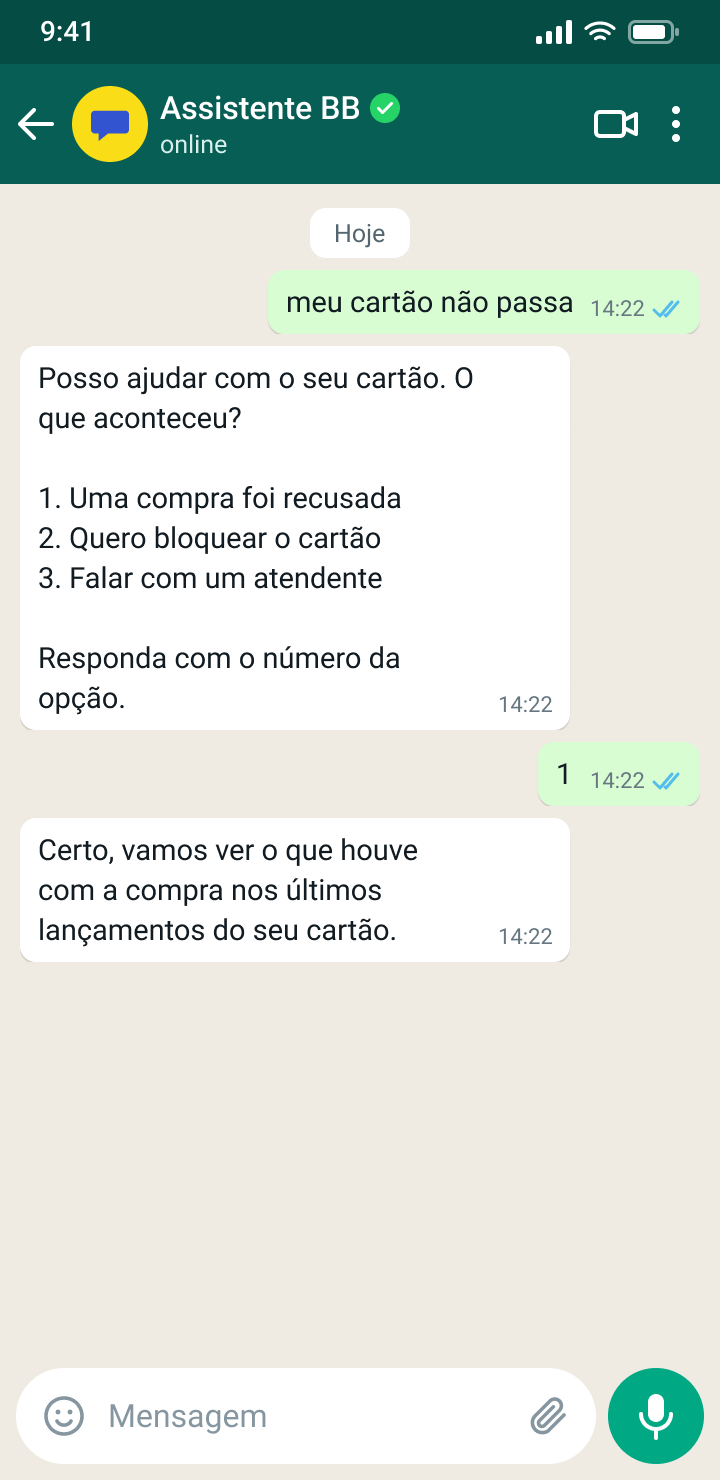
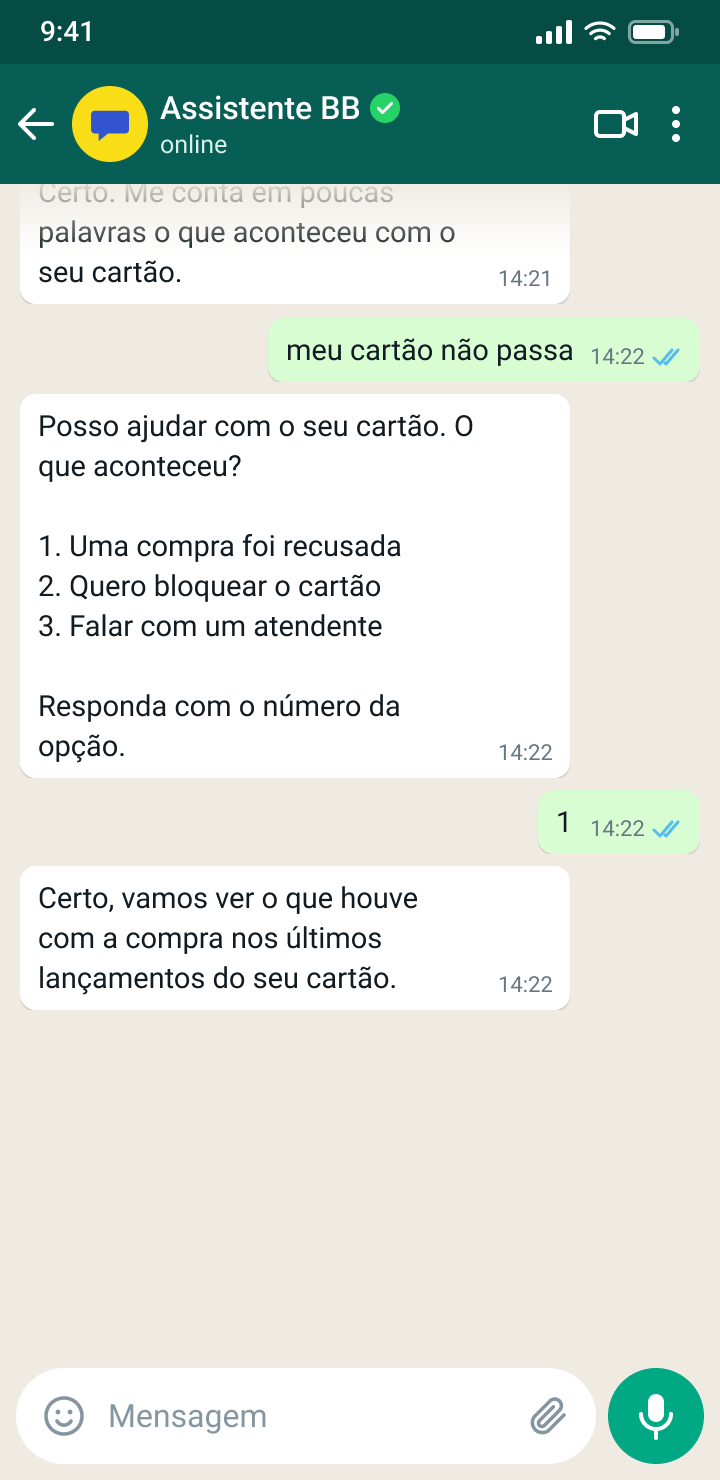
Case BB: mockups de WhatsApp como uma conversa contínua (sem 'Hoje' nas telas 2 e 3, mensagem anterior no topo com fade) e rótulos PT/EN/ES
Claude-Session: https://claude.ai/code/session_01AMTPoRfJPEUWcLiTCnj4aj

diff --git a/es/index.html b/es/index.html
@@ -354,9 +354,9 @@
 </div>
 <div class="cx-bleed">
 <div class="cx-strip imgs fx" style="--n:4;--cols:0.486fr 0.486fr 0.486fr 1.267fr">
-<img style="aspect-ratio:360/740" src="/bb-fallback.png" alt="Chat de WhatsApp con el asistente de BB, en portugués: después de dos mensajes sin contexto, el asistente explica lo que puede hacer con un ejemplo y ofrece opciones numeradas" loading="lazy">
-<img style="aspect-ratio:360/740" src="/bb-desambiguacao.png" alt="Chat de WhatsApp, en portugués: el cliente escribe “mi tarjeta no pasa” y el asistente confirma la intención con tres opciones numeradas antes de pedir cualquier dato" loading="lazy">
-<img style="aspect-ratio:360/740" src="/bb-risco.png" alt="Chat de WhatsApp, en portugués: el cliente no reconoce una compra rechazada en la tarjeta terminada en 4821 y el asistente deriva a un agente, avisando que recibe el resumen de la conversación" loading="lazy">
+<figure class="bb-fig"><figcaption class="bb-cap">1. Fallback en 2 etapas</figcaption><img style="aspect-ratio:360/740" src="/bb-fallback.png" alt="Chat de WhatsApp con el asistente de BB, en portugués: después de dos mensajes sin contexto, el asistente explica lo que puede hacer con un ejemplo y ofrece opciones numeradas" loading="lazy"></figure>
+<figure class="bb-fig"><figcaption class="bb-cap">2. Desambiguación</figcaption><img style="aspect-ratio:360/740" src="/bb-desambiguacao.png" alt="Chat de WhatsApp, en portugués: el cliente escribe “mi tarjeta no pasa” y el asistente confirma la intención con tres opciones numeradas antes de pedir cualquier dato" loading="lazy"></figure>
+<figure class="bb-fig"><figcaption class="bb-cap">3. Derivación con contexto</figcaption><img style="aspect-ratio:360/740" src="/bb-risco.png" alt="Chat de WhatsApp, en portugués: el cliente no reconoce una compra rechazada en la tarjeta terminada en 4821 y el asistente deriva a un agente, avisando que recibe el resumen de la conversación" loading="lazy"></figure>
 <img style="aspect-ratio:760/600" src="/bb-console.png" alt="Consola del agente, en portugués, con la conversación que viene de WhatsApp y el resumen de la preatención: intención detectada, paso donde se cortó, datos ya validados y regla activada" loading="lazy">
 </div>
 </div>

diff --git a/index.html b/index.html
@@ -354,9 +354,9 @@
 </div>
 <div class="cx-bleed">
 <div class="cx-strip imgs fx" style="--n:4;--cols:0.486fr 0.486fr 0.486fr 1.267fr">
-<img style="aspect-ratio:360/740" src="/bb-fallback.png" alt="WhatsApp chat with the BB assistant, in Portuguese: after two messages without context, the assistant explains what it can do with an example and offers numbered options" loading="lazy">
-<img style="aspect-ratio:360/740" src="/bb-desambiguacao.png" alt="WhatsApp chat, in Portuguese: the customer writes “my card isn’t going through” and the assistant confirms the intent with three numbered options before asking for any data" loading="lazy">
-<img style="aspect-ratio:360/740" src="/bb-risco.png" alt="WhatsApp chat, in Portuguese: the customer doesn’t recognize a declined purchase on the card ending in 4821, and the assistant hands off to an agent, saying the agent gets a summary of the conversation" loading="lazy">
+<figure class="bb-fig"><figcaption class="bb-cap">1. Two-step fallback</figcaption><img style="aspect-ratio:360/740" src="/bb-fallback.png" alt="WhatsApp chat with the BB assistant, in Portuguese: after two messages without context, the assistant explains what it can do with an example and offers numbered options" loading="lazy"></figure>
+<figure class="bb-fig"><figcaption class="bb-cap">2. Disambiguation</figcaption><img style="aspect-ratio:360/740" src="/bb-desambiguacao.png" alt="WhatsApp chat, in Portuguese: the customer writes “my card isn’t going through” and the assistant confirms the intent with three numbered options before asking for any data" loading="lazy"></figure>
+<figure class="bb-fig"><figcaption class="bb-cap">3. Handoff with context</figcaption><img style="aspect-ratio:360/740" src="/bb-risco.png" alt="WhatsApp chat, in Portuguese: the customer doesn’t recognize a declined purchase on the card ending in 4821, and the assistant hands off to an agent, saying the agent gets a summary of the conversation" loading="lazy"></figure>
 <img style="aspect-ratio:760/600" src="/bb-console.png" alt="Agent console, in Portuguese, with the conversation from WhatsApp and the pre-service summary: detected intent, step where it stopped, data already validated and rule triggered" loading="lazy">
 </div>
 </div>

diff --git a/pt/index.html b/pt/index.html
@@ -372,9 +372,9 @@
 </div>
 <div class="cx-bleed">
 <div class="cx-strip imgs fx" style="--n:4;--cols:0.486fr 0.486fr 0.486fr 1.267fr">
-<img style="aspect-ratio:360/740" src="/bb-fallback.png" alt="Conversa no WhatsApp com a Assistente BB: depois de duas mensagens sem contexto, a assistente explica o que consegue fazer com um exemplo e oferece opções numeradas" loading="lazy">
-<img style="aspect-ratio:360/740" src="/bb-desambiguacao.png" alt="Conversa no WhatsApp: o cliente escreve “meu cartão não passa” e a assistente confirma a intenção com três opções numeradas antes de pedir qualquer dado" loading="lazy">
-<img style="aspect-ratio:360/740" src="/bb-risco.png" alt="Conversa no WhatsApp: o cliente não reconhece uma compra recusada no cartão final 4821 e a assistente transfere para um atendente, avisando que ele recebe o resumo da conversa" loading="lazy">
+<figure class="bb-fig"><figcaption class="bb-cap">1. Fallback em 2 etapas</figcaption><img style="aspect-ratio:360/740" src="/bb-fallback.png" alt="Conversa no WhatsApp com a Assistente BB: depois de duas mensagens sem contexto, a assistente explica o que consegue fazer com um exemplo e oferece opções numeradas" loading="lazy"></figure>
+<figure class="bb-fig"><figcaption class="bb-cap">2. Desambiguação</figcaption><img style="aspect-ratio:360/740" src="/bb-desambiguacao.png" alt="Conversa no WhatsApp: o cliente escreve “meu cartão não passa” e a assistente confirma a intenção com três opções numeradas antes de pedir qualquer dado" loading="lazy"></figure>
+<figure class="bb-fig"><figcaption class="bb-cap">3. Transbordo com contexto</figcaption><img style="aspect-ratio:360/740" src="/bb-risco.png" alt="Conversa no WhatsApp: o cliente não reconhece uma compra recusada no cartão final 4821 e a assistente transfere para um atendente, avisando que ele recebe o resumo da conversa" loading="lazy"></figure>
 <img style="aspect-ratio:760/600" src="/bb-console.png" alt="Console do atendente com a conversa vinda do WhatsApp e o resumo do pré-atendimento: intenção detectada, etapa em que parou, dados já validados e regra acionada" loading="lazy">
 </div>
 </div>

diff --git a/assistente-virtual-whatsapp.html b/assistente-virtual-whatsapp.html
@@ -67,9 +67,9 @@
 </div>
 <div class="cx-bleed">
 <div class="cx-strip imgs" style="--n:3">
-<img src="/bb-fallback.png" alt="WhatsApp chat with the BB assistant, in Portuguese: after two messages without context, the assistant explains what it can do with an example and offers numbered options" loading="lazy">
-<img src="/bb-desambiguacao.png" alt="WhatsApp chat, in Portuguese: the customer writes “my card isn’t going through” and the assistant confirms the intent with three numbered options before asking for any data" loading="lazy">
-<img src="/bb-risco.png" alt="WhatsApp chat, in Portuguese: the customer doesn’t recognize a declined purchase on the card ending in 4821, and the assistant hands off to an agent, saying the agent gets a summary of the conversation" loading="lazy">
+<figure class="bb-fig"><figcaption class="bb-cap">1. Two-step fallback</figcaption><img src="/bb-fallback.png" alt="WhatsApp chat with the BB assistant, in Portuguese: after two messages without context, the assistant explains what it can do with an example and offers numbered options" loading="lazy"></figure>
+<figure class="bb-fig"><figcaption class="bb-cap">2. Disambiguation</figcaption><img src="/bb-desambiguacao.png" alt="WhatsApp chat, in Portuguese: the customer writes “my card isn’t going through” and the assistant confirms the intent with three numbered options before asking for any data" loading="lazy"></figure>
+<figure class="bb-fig"><figcaption class="bb-cap">3. Handoff with context</figcaption><img src="/bb-risco.png" alt="WhatsApp chat, in Portuguese: the customer doesn’t recognize a declined purchase on the card ending in 4821, and the assistant hands off to an agent, saying the agent gets a summary of the conversation" loading="lazy"></figure>
 </div>
 </div>
 <div class="cx-body">

diff --git a/es/assistente-virtual-whatsapp.html b/es/assistente-virtual-whatsapp.html
@@ -67,9 +67,9 @@
 </div>
 <div class="cx-bleed">
 <div class="cx-strip imgs" style="--n:3">
-<img src="/bb-fallback.png" alt="Chat de WhatsApp con el asistente de BB, en portugués: después de dos mensajes sin contexto, el asistente explica lo que puede hacer con un ejemplo y ofrece opciones numeradas" loading="lazy">
-<img src="/bb-desambiguacao.png" alt="Chat de WhatsApp, en portugués: el cliente escribe “mi tarjeta no pasa” y el asistente confirma la intención con tres opciones numeradas antes de pedir cualquier dato" loading="lazy">
-<img src="/bb-risco.png" alt="Chat de WhatsApp, en portugués: el cliente no reconoce una compra rechazada en la tarjeta terminada en 4821 y el asistente deriva a un agente, avisando que recibe el resumen de la conversación" loading="lazy">
+<figure class="bb-fig"><figcaption class="bb-cap">1. Fallback en 2 etapas</figcaption><img src="/bb-fallback.png" alt="Chat de WhatsApp con el asistente de BB, en portugués: después de dos mensajes sin contexto, el asistente explica lo que puede hacer con un ejemplo y ofrece opciones numeradas" loading="lazy"></figure>
+<figure class="bb-fig"><figcaption class="bb-cap">2. Desambiguación</figcaption><img src="/bb-desambiguacao.png" alt="Chat de WhatsApp, en portugués: el cliente escribe “mi tarjeta no pasa” y el asistente confirma la intención con tres opciones numeradas antes de pedir cualquier dato" loading="lazy"></figure>
+<figure class="bb-fig"><figcaption class="bb-cap">3. Derivación con contexto</figcaption><img src="/bb-risco.png" alt="Chat de WhatsApp, en portugués: el cliente no reconoce una compra rechazada en la tarjeta terminada en 4821 y el asistente deriva a un agente, avisando que recibe el resumen de la conversación" loading="lazy"></figure>
 </div>
 </div>
 <div class="cx-body">

diff --git a/pt/assistente-virtual-whatsapp.html b/pt/assistente-virtual-whatsapp.html
@@ -67,9 +67,9 @@
 </div>
 <div class="cx-bleed">
 <div class="cx-strip imgs" style="--n:3">
-<img src="/bb-fallback.png" alt="Conversa no WhatsApp com a Assistente BB: depois de duas mensagens sem contexto, a assistente explica o que consegue fazer com um exemplo e oferece opções numeradas" loading="lazy">
-<img src="/bb-desambiguacao.png" alt="Conversa no WhatsApp: o cliente escreve “meu cartão não passa” e a assistente confirma a intenção com três opções numeradas antes de pedir qualquer dado" loading="lazy">
-<img src="/bb-risco.png" alt="Conversa no WhatsApp: o cliente não reconhece uma compra recusada no cartão final 4821 e a assistente transfere para um atendente, avisando que ele recebe o resumo da conversa" loading="lazy">
+<figure class="bb-fig"><figcaption class="bb-cap">1. Fallback em 2 etapas</figcaption><img src="/bb-fallback.png" alt="Conversa no WhatsApp com a Assistente BB: depois de duas mensagens sem contexto, a assistente explica o que consegue fazer com um exemplo e oferece opções numeradas" loading="lazy"></figure>
+<figure class="bb-fig"><figcaption class="bb-cap">2. Desambiguação</figcaption><img src="/bb-desambiguacao.png" alt="Conversa no WhatsApp: o cliente escreve “meu cartão não passa” e a assistente confirma a intenção com três opções numeradas antes de pedir qualquer dado" loading="lazy"></figure>
+<figure class="bb-fig"><figcaption class="bb-cap">3. Transbordo com contexto</figcaption><img src="/bb-risco.png" alt="Conversa no WhatsApp: o cliente não reconhece uma compra recusada no cartão final 4821 e a assistente transfere para um atendente, avisando que ele recebe o resumo da conversa" loading="lazy"></figure>
 </div>
 </div>
 <div class="cx-body">

diff --git a/styles.css b/styles.css
@@ -1304,3 +1304,9 @@ body.v2 .ct { padding-top: 40px; }
 /* Tags na legenda do card (mobile e touch, sem hover) */
 .v2 .cs-cap .cs-tags { display: flex; flex-wrap: wrap; gap: 6px; margin: 12px 0 0; }
 .v2 .cs-cap .cs-tags span { padding: 4px 10px; border-radius: 100px; background: rgba(0, 0, 0, .05); border: 1px solid rgba(0, 0, 0, .08); font-size: 12px; font-weight: 600; line-height: 1.2; color: #111; }
+
+/* BB: rótulos acima dos 3 mockups de WhatsApp */
+.bb-fig { margin: 0; min-width: 0; display: block; }
+.bb-cap { max-width: none; margin: 0 0 8px; font-size: .78rem; line-height: 1.3; font-weight: 600; letter-spacing: .01em; color: #666; }
+.cx-strip.fx .bb-fig { display: flex; flex-direction: column; justify-content: flex-end; }
+.cx-strip.fx .bb-cap { display: flex; align-items: flex-end; min-height: 2.6em; }
